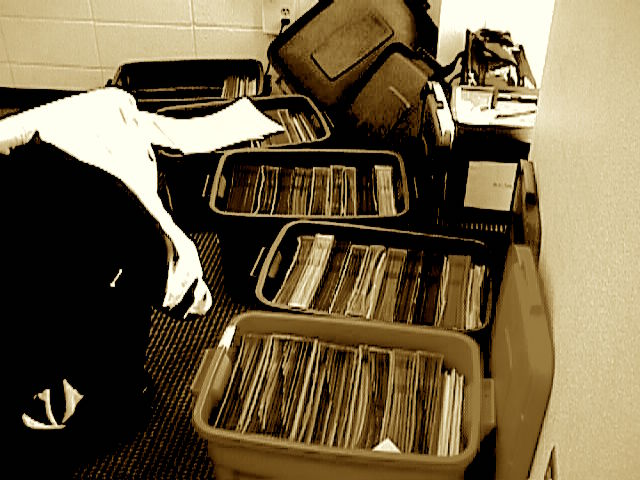
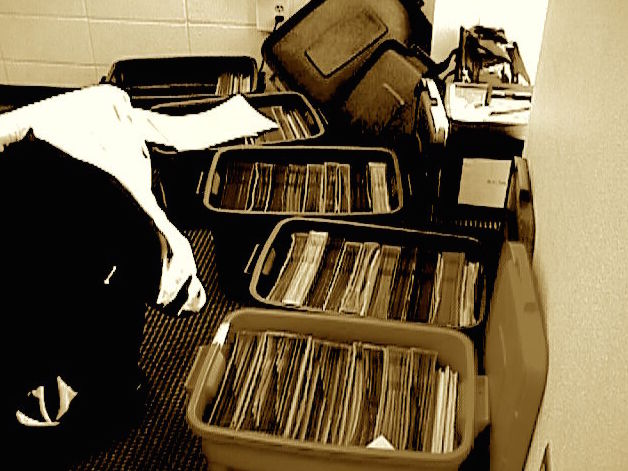
Fix picture

diff --git a/index.html b/index.html
@@ -61,7 +61,7 @@
 							</div>
 						</section>
 						<section class="spotlight">
-							<div class="image"><img src="images/debate-tubs.jpg" alt="" /></div><div class="content">
+							<div class="image"><img src="images/debate-tub.png" alt="" /></div><div class="content">
 								<h2>Debate</h2>
 								<p>Debate will probably be my biggest love for the rest of my life. I began debating for my high school in Chicago during my junior year and then continued for four years in college. Currently, I am the Assistant Director of Debate at NYU, where I coach and travel across the country with the team.</p>
 								<p>While an entire page should be dedicated to why I love debate so much, I can generalize and say that I love debate because it offers infinite possibility to learn on a variety of subject matters across all fields. When most people think of debate, they see debaters arguing "eloquently" in suits, citing Benjamin Franklin or Thomas Moore. Over my 6 years competing, I never wore a suit, debated at a speed akin to an auctioneer and cited everyone from national security experts at the Brookings Institute to artists in the DADA art movement. Debate never allows you to know everything and will allow you to challenge conventional fact with a strong set of arguments. I am so happy to still be part of the community and hope I can be for years to come.</p>
